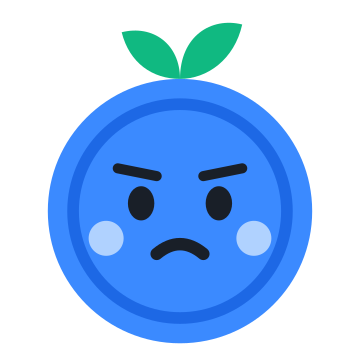
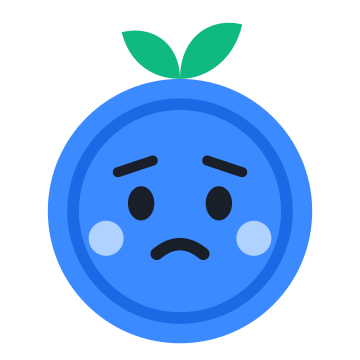
일주이 적용 2차: AI 일주 매니저 얼굴(매니저 화면·채팅 AI 응대 띠) · 신뢰도 등급 = 일주이 성장(씨앗→새싹→잎→꽃봉오리→꽃) · 완료 화면 체크 → 신남 일주이 깡충 + 체크 배지 · 시무룩 눈썹이 화난 얼굴로 읽히던 것 수정

Changed region(s): [[0.3056, 0.4278, 0.4583, 0.5194], [0.55, 0.4278, 0.7028, 0.5194]]

diff --git a/lib/widget/app_motion.dart b/lib/widget/app_motion.dart
@@ -1,3 +1,5 @@
+import 'dart:math' as math;
+
 import 'package:flutter/material.dart';
 import 'package:flutter/services.dart';
 import 'package:intl/intl.dart';
@@ -155,6 +157,7 @@ class _AppSuccessPageState extends State<_AppSuccessPage>
   Widget build(BuildContext context) {
     final pop = _seg(0, 0.45, Curves.elasticOut);
     final draw = _seg(0.2, 0.55);
+    final hop = _seg(0.45, 0.8, Curves.easeOut);
     final text = _seg(0.35, 0.8);
     final rest = _seg(0.55, 1);
 
@@ -185,20 +188,45 @@ class _AppSuccessPageState extends State<_AppSuccessPage>
                 ),
               ),
               const Spacer(flex: 2),
+              // 신남 일주이가 튀어나와 한 번 깡충 + 체크 배지 (2026-11 리브랜딩)
               ScaleTransition(
                 scale: pop,
-                child: Container(
-                  width: 88,
-                  height: 88,
-                  decoration: const BoxDecoration(
-                    color: AppColors.primary,
-                    shape: BoxShape.circle,
-                  ),
-                  child: AnimatedBuilder(
-                    animation: draw,
-                    builder:
-                        (_, __) =>
-                            CustomPaint(painter: _CheckPainter(draw.value)),
+                child: AnimatedBuilder(
+                  animation: hop,
+                  builder:
+                      (_, child) => Transform.translate(
+                        offset: Offset(0, -18 * math.sin(math.pi * hop.value)),
+                        child: child,
+                      ),
+                  child: SizedBox(
+                    width: 120,
+                    height: 120,
+                    child: Stack(
+                      clipBehavior: Clip.none,
+                      children: [
+                        const Iljui(size: 120, mood: IljuiMood.happy),
+                        Positioned(
+                          right: 0,
+                          bottom: 4,
+                          child: Container(
+                            width: 36,
+                            height: 36,
+                            decoration: BoxDecoration(
+                              color: AppColors.primary,
+                              shape: BoxShape.circle,
+                              border: Border.all(color: AppColors.bgCard, width: 3),
+                            ),
+                            child: AnimatedBuilder(
+                              animation: draw,
+                              builder:
+                                  (_, __) => CustomPaint(
+                                    painter: _CheckPainter(draw.value),
+                                  ),
+                            ),
+                          ),
+                        ),
+                      ],
+                    ),
                   ),
                 ),
               ),

diff --git a/lib/presentation/screens/worker_screen/home_my_page_screen.dart b/lib/presentation/screens/worker_screen/home_my_page_screen.dart
@@ -709,6 +709,45 @@ String _gradeLabel(String grade) => switch (grade) {
   _ => (null, 100, 100),
 };
 
+/// 등급 = 일주이가 자란 정도 (2026-11): NEW 씨앗 · C 새싹 · B 잎 · A 꽃봉오리 · S 꽃.
+/// 그림만으론 등급을 못 읽으니 글자 배지를 같이 단다.
+class _GradeIljui extends StatelessWidget {
+  final String grade;
+  final Color color;
+  const _GradeIljui({required this.grade, required this.color});
+
+  @override
+  Widget build(BuildContext context) {
+    final key = const {'S', 'A', 'B', 'C'}.contains(grade) ? grade.toLowerCase() : 'new';
+    return SizedBox(
+      width: 48,
+      height: 52,
+      child: Stack(
+        clipBehavior: Clip.none,
+        children: [
+          Image.asset('assets/brand/grade_$key.png', width: 44, height: 50, semanticLabel: '$grade등급'),
+          Positioned(
+            right: -4,
+            bottom: 0,
+            child: Container(
+              padding: const EdgeInsets.symmetric(horizontal: 5, vertical: 1),
+              decoration: BoxDecoration(
+                color: AppColors.bgCard,
+                borderRadius: BorderRadius.circular(AppRadius.full),
+                border: Border.all(color: color),
+              ),
+              child: Text(
+                grade,
+                style: AppTextStyles.caption.copyWith(color: color, fontWeight: FontWeight.w800),
+              ),
+            ),
+          ),
+        ],
+      ),
+    );
+  }
+}
+
 class _TrustRow extends StatelessWidget {
   final bool loading;
   final int score;
@@ -748,28 +787,7 @@ class _TrustRow extends StatelessWidget {
                 )
                 : Row(
                   children: [
-                    Container(
-                      width: 40,
-                      height: 40,
-                      alignment: Alignment.center,
-                      decoration: BoxDecoration(
-                        color: color.withValues(alpha: 0.12),
-                        borderRadius: BorderRadius.circular(AppRadius.sm),
-                      ),
-                      padding: const EdgeInsets.symmetric(horizontal: 6),
-                      // 'NEW'가 40px 칸에서 두 줄로 꺾이던 것
-                      child: FittedBox(
-                        fit: BoxFit.scaleDown,
-                        child: Text(
-                          grade,
-                          maxLines: 1,
-                          style: AppTextStyles.h3.copyWith(
-                            color: color,
-                            fontWeight: FontWeight.w800,
-                          ),
-                        ),
-                      ),
-                    ),
+                    _GradeIljui(grade: grade, color: color),
                     const SizedBox(width: 12),
                     Expanded(
                       child: Column(

diff --git a/lib/presentation/agent/ai_manager_screen.dart b/lib/presentation/agent/ai_manager_screen.dart
@@ -1,6 +1,7 @@
 import 'dart:convert';
 import 'package:flutter/material.dart';
 import '../../config/app_theme.dart';
+import '../../widget/app_ui.dart';
 import '../../config/constants.dart';
 import '../../data/services/authenticated_http_client.dart';
 import '../../data/services/vacancy_service.dart';
@@ -71,9 +72,23 @@ class _AiManagerScreenState extends State<AiManagerScreen> {
           // 아래 시스템 내비 바만큼 더 — 마지막 줄 '채팅 번역'이 가려졌다
           padding: EdgeInsets.fromLTRB(20, 16, 20, 32 + MediaQuery.paddingOf(context).bottom),
           children: [
-            const Text('공고부터 출근까지, AI 매니저가 대신 챙겨요', style: AppTextStyles.h2),
-            const SizedBox(height: 6),
-            const Text('채용 확정·돈이 드는 일은 사장님이 마지막에 정해요.', style: AppTextStyles.body2),
+            // AI 일주 매니저의 얼굴 = 일주이 (2026-11 리브랜딩)
+            const Row(
+              children: [
+                Iljui(size: 64, animate: true),
+                SizedBox(width: 14),
+                Expanded(
+                  child: Column(
+                    crossAxisAlignment: CrossAxisAlignment.start,
+                    children: [
+                      Text('공고부터 출근까지, AI 매니저가 대신 챙겨요', style: AppTextStyles.h2),
+                      SizedBox(height: 6),
+                      Text('채용 확정·돈이 드는 일은 사장님이 마지막에 정해요.', style: AppTextStyles.body2),
+                    ],
+                  ),
+                ),
+              ],
+            ),
             const SizedBox(height: 20),
             SwitchListTile.adaptive(
               contentPadding: EdgeInsets.zero,

diff --git a/lib/presentation/chat/chat_room_screen.dart b/lib/presentation/chat/chat_room_screen.dart
@@ -920,7 +920,7 @@ class _ChatRoomViewState extends State<_ChatRoomView> {
       ),
       child: Row(
         children: [
-          const Icon(Icons.smart_toy_outlined, size: 15, color: AppColors.textSecondary),
+          const Iljui(size: 18), // AI 일주 매니저 = 일주이
           const SizedBox(width: 6),
           Expanded(
             child: Text(
